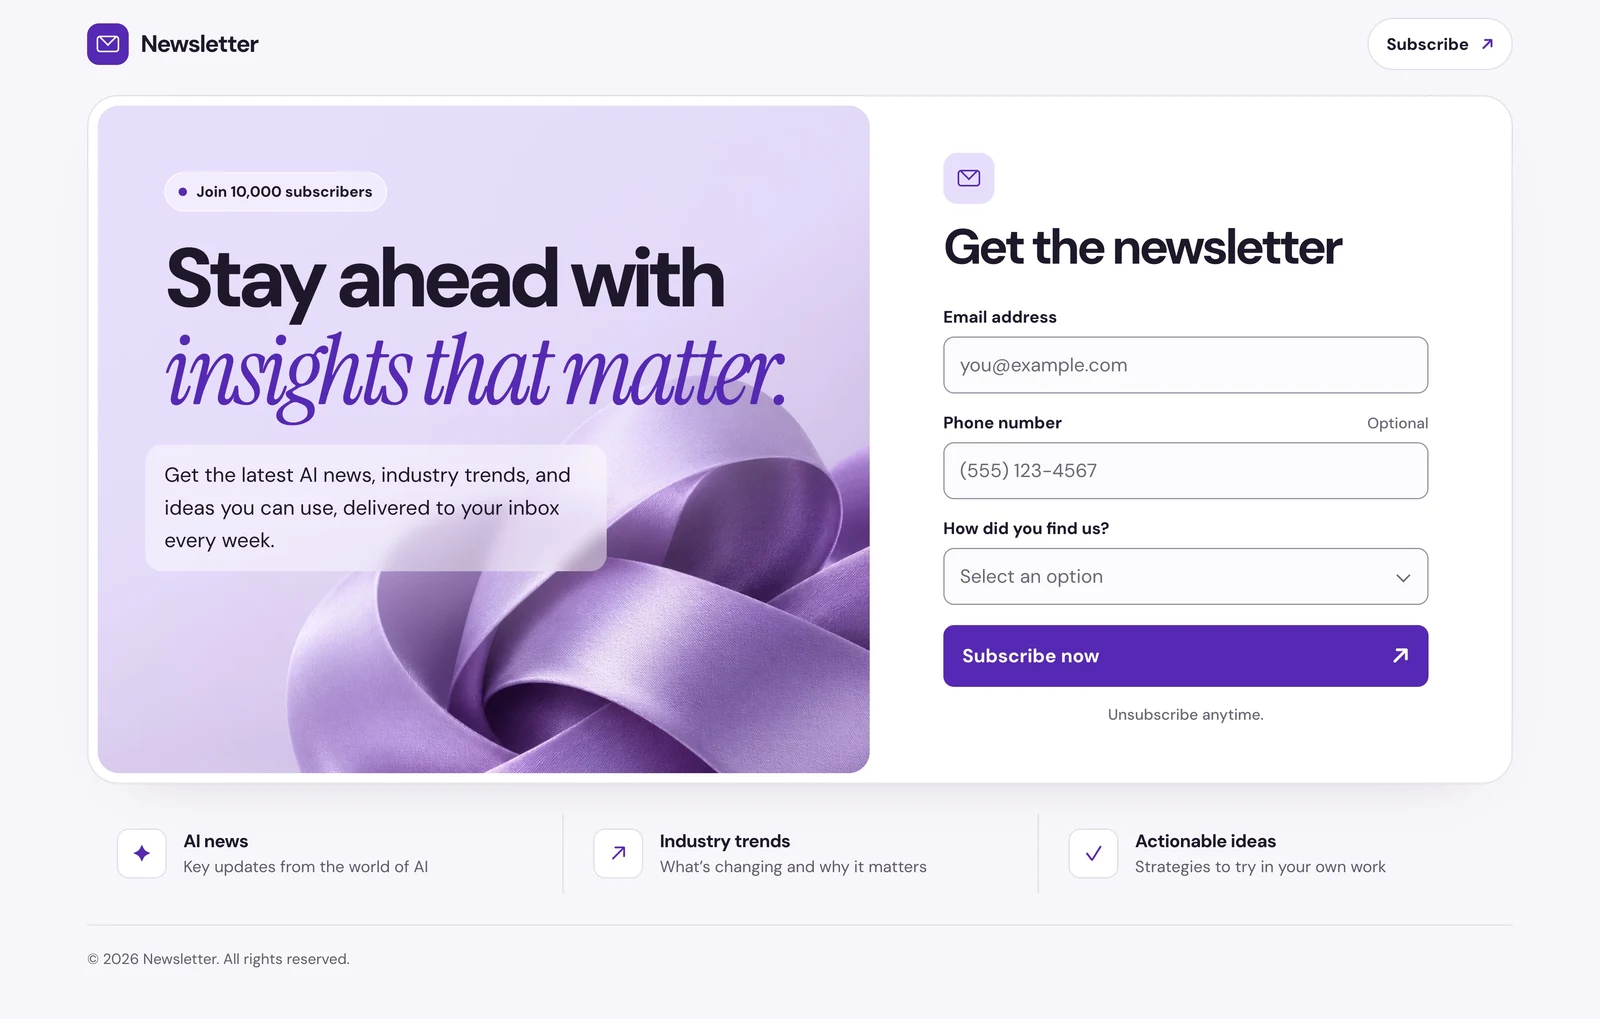
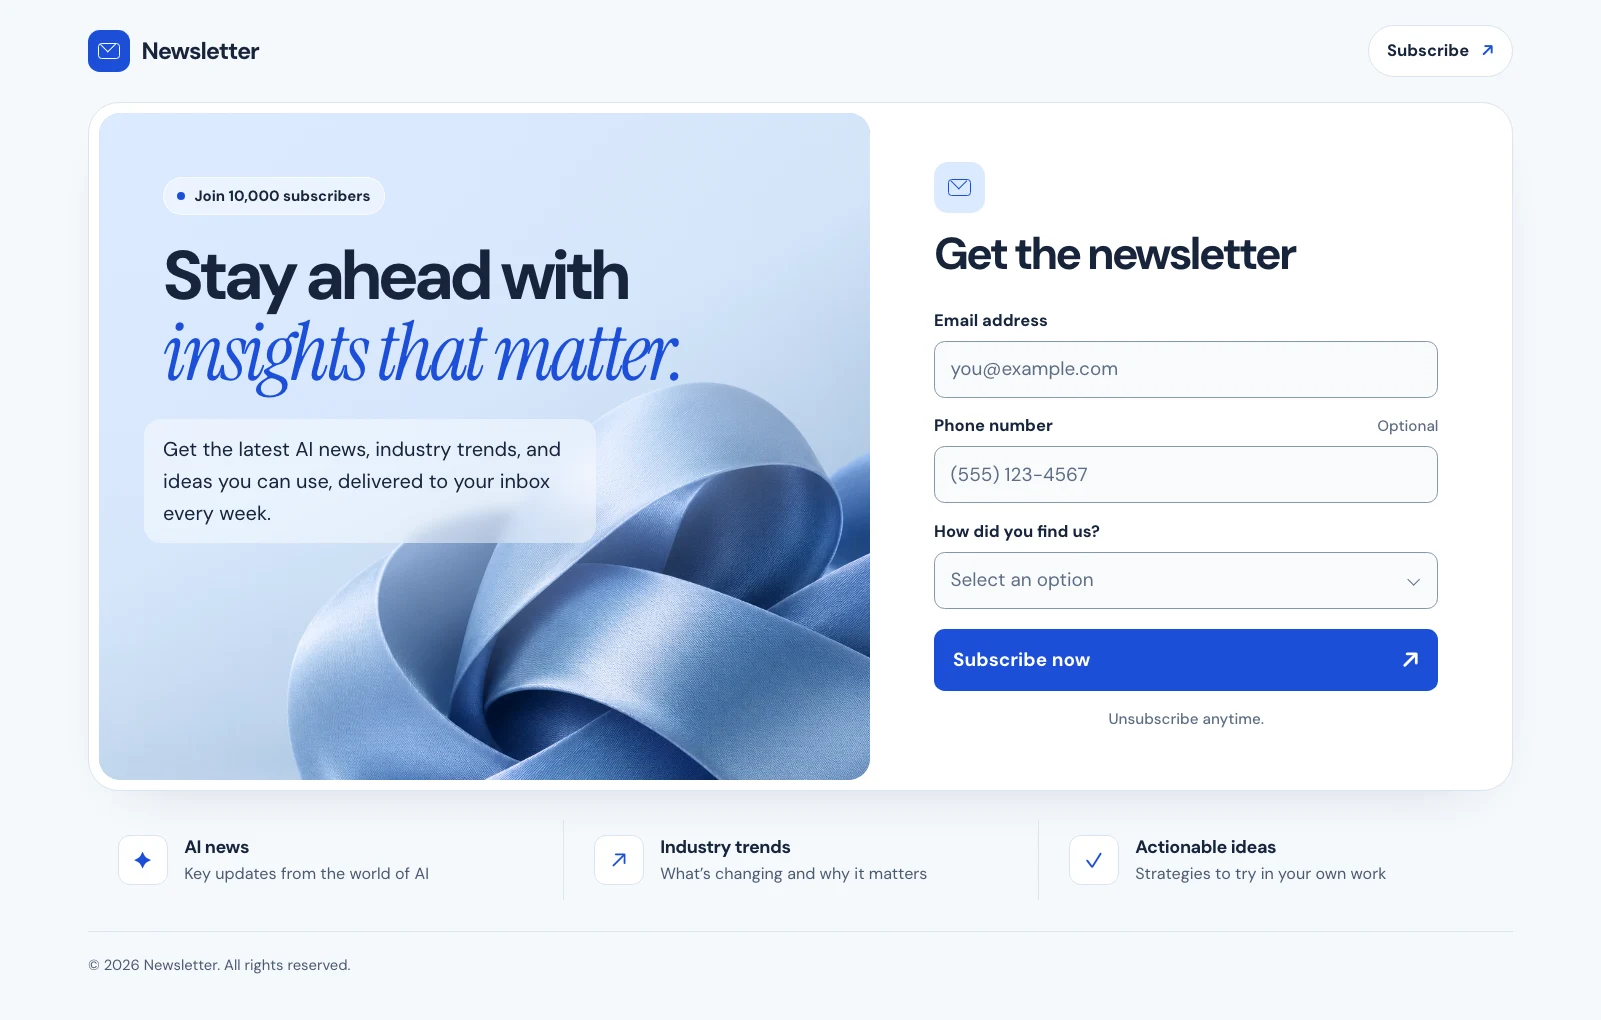
Switch the newsletter theme to blue

diff --git a/src/config.ts b/src/config.ts
@@ -81,21 +81,21 @@ export const referralSources = [
 // Use hex colors like "#ff0000" or rgb like "rgb(255, 0, 0)"
 export const colors = {
   // Background colors
-  bgPrimary: "#f7f6fa",
+  bgPrimary: "#f5f8fc",
   bgSecondary: "#ffffff",
-  bgTertiary: "#fbfafd",
+  bgTertiary: "#f8fafc",
 
   // Accent colors (your brand color!)
-  accentPrimary: "#5d25bb",
-  accentSecondary: "#e9ddff",
+  accentPrimary: "#1d4ed8",
+  accentSecondary: "#dbeafe",
 
   // Text colors
-  textPrimary: "#20172b",
-  textSecondary: "#62596d",
-  textMuted: "#6f657a",
+  textPrimary: "#17243b",
+  textSecondary: "#4b5b71",
+  textMuted: "#5d6d84",
 
   // Other colors
-  borderColor: "#e3deea",
+  borderColor: "#dbe4ef",
   success: "#157349",
   error: "#a92e47",
 };

diff --git a/src/App.css b/src/App.css
@@ -80,7 +80,7 @@
   border: 1px solid var(--border-color);
   border-radius: 26px;
   background: var(--bg-secondary);
-  box-shadow: 0 18px 52px -40px #28143e55;
+  box-shadow: 0 18px 52px -40px color-mix(in srgb, var(--text-primary) 33%, transparent);
 }
 
 .hero {
@@ -104,6 +104,7 @@
 .hero-art {
   object-fit: cover;
   object-position: center top;
+  filter: hue-rotate(-55deg);
 }
 
 .hero::after {

diff --git a/README.md b/README.md
@@ -65,16 +65,16 @@ Open `src/config.ts` and find the `colors` section:
 ```typescript
 export const colors = {
   // Background colors
-  bgPrimary: "#0a0a0b",      // Main background
-  bgSecondary: "#111113",    // Card background
+  bgPrimary: "#f5f8fc",      // Main background
+  bgSecondary: "#ffffff",    // Card background
   
   // Accent colors (your brand color!)
-  accentPrimary: "#f59e0b",   // Change this to your brand color!
-  accentSecondary: "#fbbf24", // Lighter version for gradients
+  accentPrimary: "#1d4ed8",   // Change this to your brand color!
+  accentSecondary: "#dbeafe", // Lighter version for gradients
   
   // Text colors
-  textPrimary: "#fafafa",    // Main text
-  textSecondary: "#a1a1aa",  // Subtext
+  textPrimary: "#17243b",    // Main text
+  textSecondary: "#4b5b71",  // Subtext
   // ... more colors
 };
 ```
@@ -83,8 +83,8 @@ export const colors = {
 
 | Theme | Primary | Secondary |
 |-------|---------|-----------|
-| 🟠 Amber (default) | `#f59e0b` | `#fbbf24` |
-| 🔵 Blue | `#3b82f6` | `#60a5fa` |
+| 🔵 Blue (default) | `#1d4ed8` | `#dbeafe` |
+| 🟠 Amber | `#f59e0b` | `#fbbf24` |
 | 🟣 Purple | `#8b5cf6` | `#a78bfa` |
 | 🟢 Green | `#10b981` | `#34d399` |
 | 🔴 Red | `#ef4444` | `#f87171` |
